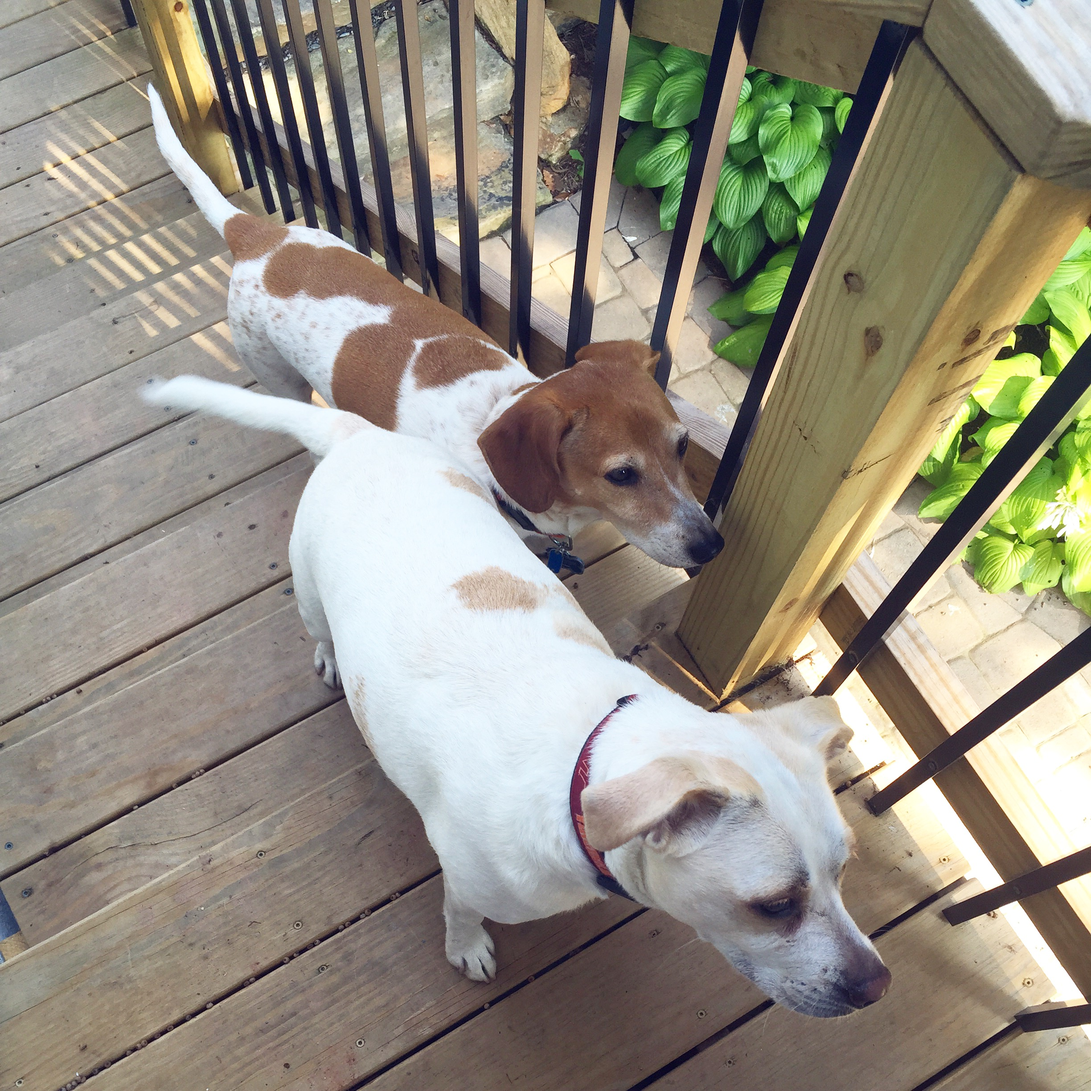
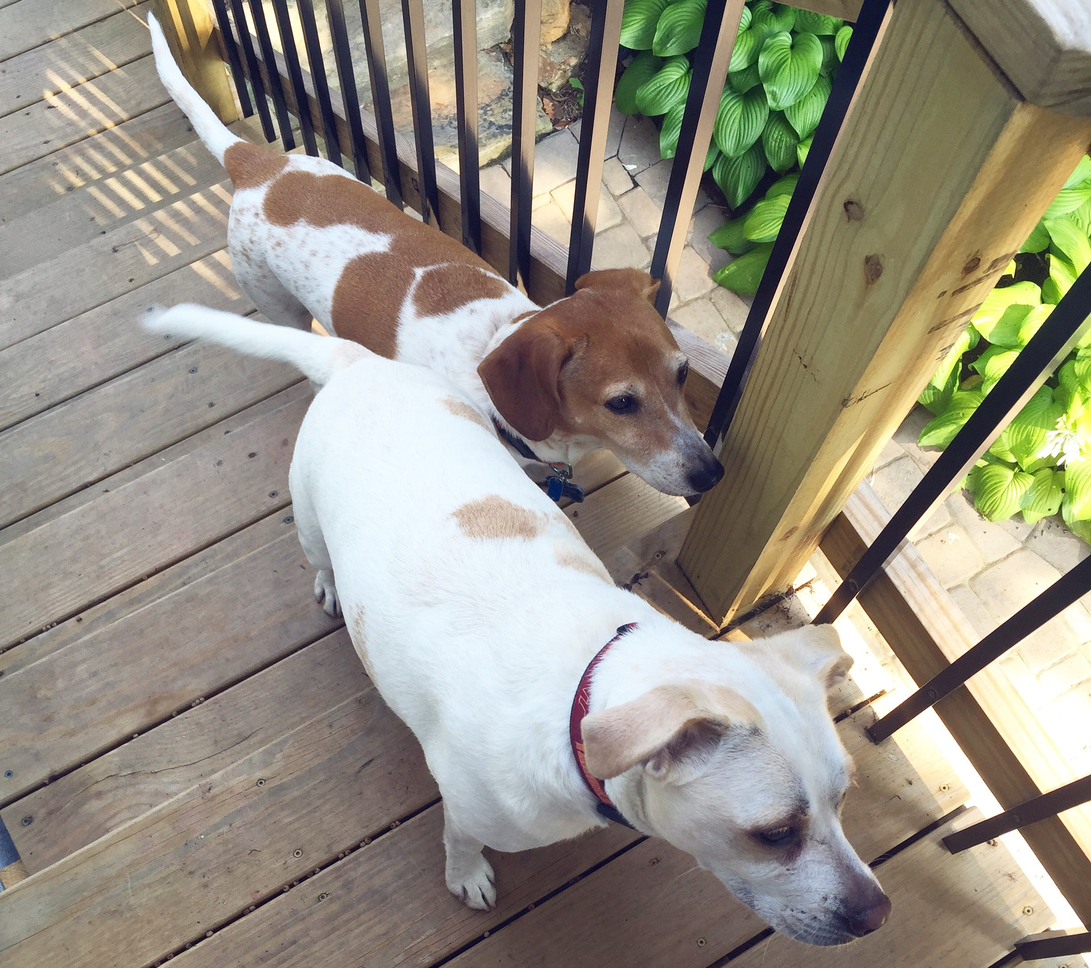
changing cover photo

diff --git a/puppies/css/main.css b/puppies/css/main.css
@@ -34,7 +34,7 @@ div.ex1 {
   /* here. Your image should be   */
   /* 815px wide and 315px high.   */
   header {
-    background-image: url("../images/IMG_1577.jpg");
+    background-image: url("../images/IMG_1591 (2).jpg");
     width: 851px;
     height: 315px;
     background-repeat: no-repeat;
